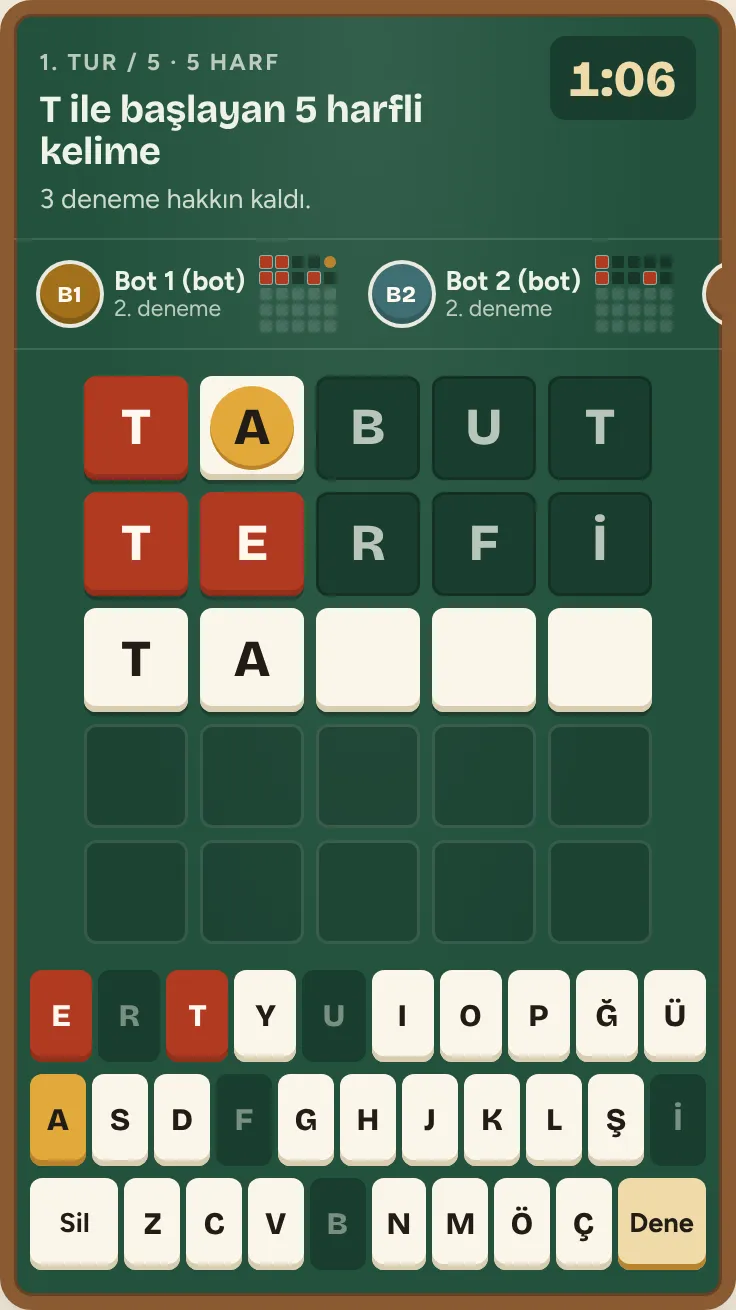
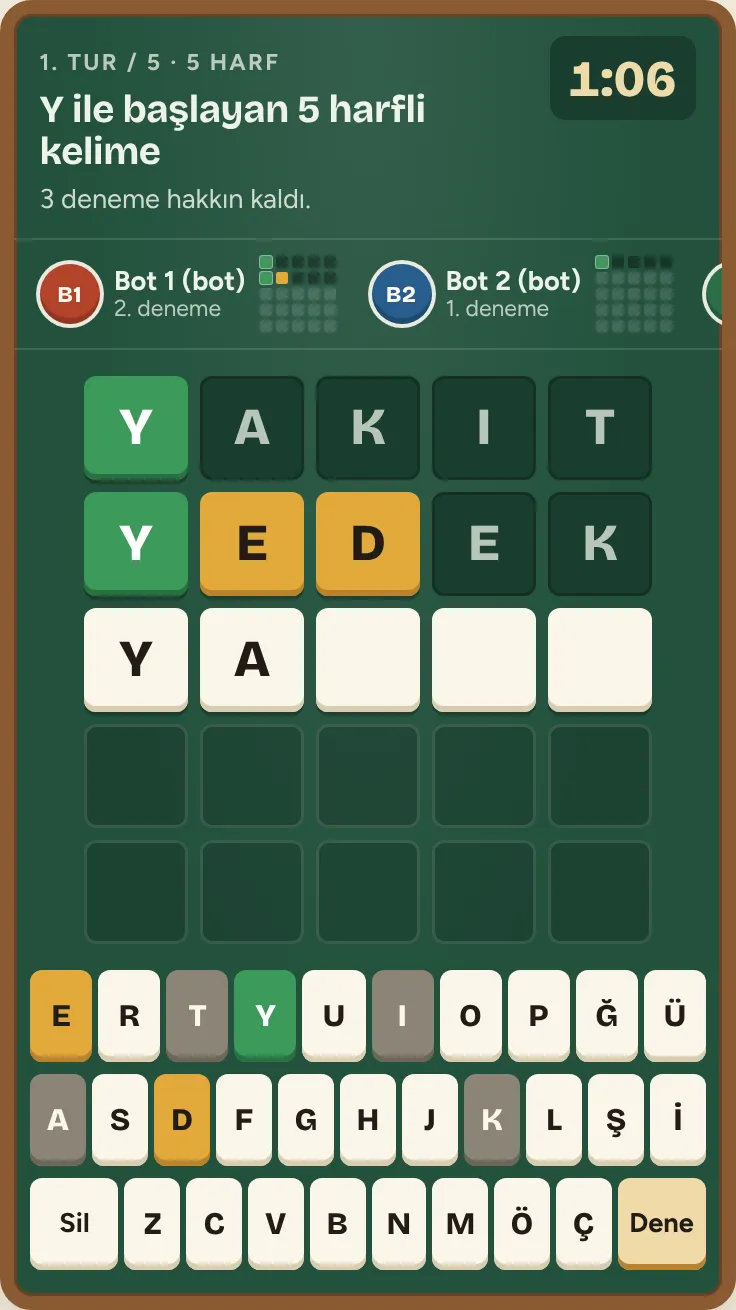
Lingo: green for letters in place, yellow for misplaced, keep every key readable
Letters in place now light up green and misplaced ones a full yellow square.
Letters the word lacks turn grey on the keyboard instead of fading into the
felt, and the keyboard no longer dims once your board is done, so the whole
alphabet stays in view every round. Rules, guide text and screenshots updated.

Claude-Session: https://claude.ai/code/session_015RL6iDuLwuutUXUxmze7HT

diff --git a/client/src/games/lingo.css b/client/src/games/lingo.css
@@ -1,9 +1,11 @@
 /*
- * Lingo: letter squares on green felt, as on the TV show. A red square is a
- * letter in its place, a yellow circle a letter that is somewhere else in the
- * word; the shape tells them apart as well as the colour does.
+ * Lingo: letter squares on green felt. A bright green square is a
+ * letter in its place, a yellow one a letter that is somewhere else in the
+ * word, a dark one a letter the word does not have.
  */
 .lingo {
+  --hit: #3d9a5c;
+  --hit-edge: #2a7142;
   display: flex;
   flex-direction: column;
 }
@@ -111,12 +113,11 @@
   background: rgb(255 255 255 / 0.14);
 }
 .rival-dots i.hit {
-  background: var(--accent);
+  background: var(--hit);
   box-shadow: 0 0 0 0.5px rgb(255 255 255 / 0.5);
 }
 .rival-dots i.near {
-  background: var(--brass);
-  border-radius: 50%;
+  background: #e2a93b;
 }
 .rival-dots i.miss {
   background: rgb(0 0 0 / 0.35);
@@ -175,25 +176,17 @@
   animation-delay: calc(var(--i) * 90ms);
 }
 .cell.hit {
-  background: var(--accent);
-  color: var(--accent-ink);
+  background: var(--hit);
+  color: #fff;
   box-shadow:
-    inset 0 -3px 0 var(--accent-dark),
+    inset 0 -3px 0 var(--hit-edge),
     0 2px 0 rgb(0 0 0 / 0.25);
 }
 .cell.near {
-  background: var(--tile);
-  box-shadow:
-    inset 0 -3px 0 var(--tile-edge),
-    0 2px 0 rgb(0 0 0 / 0.25);
-}
-.cell.near::before {
-  content: "";
-  position: absolute;
-  inset: 9%;
-  border-radius: 50%;
   background: #e2a93b;
-  box-shadow: inset 0 -2px 0 var(--brass);
+  box-shadow:
+    inset 0 -3px 0 var(--brass),
+    0 2px 0 rgb(0 0 0 / 0.25);
 }
 .cell.miss {
   background: var(--felt-dark);
@@ -212,8 +205,9 @@
   flex-direction: column;
   gap: 6px;
 }
-.keyboard.off {
-  opacity: 0.5;
+.keyboard button.kb-key:disabled {
+  opacity: 1;
+  cursor: default;
 }
 .kb-row {
   display: flex;
@@ -253,18 +247,19 @@ button.kb-key.kb-wide {
   box-shadow: inset 0 -3px 0 var(--brass);
 }
 .keyboard button.kb-key.hit {
-  background: var(--accent);
-  color: var(--accent-ink);
-  box-shadow: inset 0 -3px 0 var(--accent-dark);
+  background: var(--hit);
+  color: #fff;
+  box-shadow: inset 0 -3px 0 var(--hit-edge);
 }
 .keyboard button.kb-key.near {
   background: #e2a93b;
   box-shadow: inset 0 -3px 0 var(--brass);
 }
+/* Letters the word lacks stay readable, just greyed, so the whole alphabet is always in view. */
 .keyboard button.kb-key.miss {
-  background: var(--felt-dark);
-  color: rgb(238 243 232 / 0.45);
-  box-shadow: none;
+  background: #8a8476;
+  color: #fbf6e9;
+  box-shadow: inset 0 -3px 0 #6c6759;
 }
 
 .lingo-after {

diff --git a/client/src/Guide.tsx b/client/src/Guide.tsx
@@ -371,7 +371,7 @@ const GUIDES: Record<GameId, GameGuide> = {
       },
       {
         title: "İşaretleri oku",
-        text: "Kırmızı kare harfin yerini bildiğini, sarı daire harfin kelimede olup başka yerde durduğunu, koyu kare harfin kelimede olmadığını söyler. Yerini bildiğin harfler sonraki satırda silik olarak görünür; klavyedeki tuşlar da aynı renklere boyanır.",
+        text: "Yeşil kare harfin yerini bildiğini, sarı kare harfin kelimede olup başka yerde durduğunu, koyu kare harfin kelimede olmadığını söyler. Yerini bildiğin harfler sonraki satırda silik olarak görünür; klavyedeki tuşlar da aynı renklere boyanır.",
       },
       {
         title: "Rakipleri izle",
@@ -395,9 +395,9 @@ const GUIDES: Record<GameId, GameGuide> = {
       "Eksik koltuğa bot oturtulabilir; botlar her tahmini birkaç saniye düşünerek yapar.",
     ],
     tips: [
-      "İlk denemede farklı ve sık sesli harfleri (A, E, İ) dene; sarı daireler ikinci tahmini çok daraltır.",
+      "İlk denemede farklı ve sık sesli harfleri (A, E, İ) dene; sarı kareler ikinci tahmini çok daraltır.",
       "Koyu kareye dönen harfleri klavyede görürsün; o tuşlara bir daha basma.",
-      "Rakiplerin şeridinde çok kırmızı görüyorsan acele et: ilk bulan iki puan fazla alır.",
+      "Rakiplerin şeridinde çok yeşil görüyorsan acele et: ilk bulan iki puan fazla alır.",
     ],
   },
 };

diff --git a/client/src/games/LingoScreen.tsx b/client/src/games/LingoScreen.tsx
@@ -122,7 +122,7 @@ export function LingoScreen({ room }: { room: RoomView }) {
     if (mine?.solved) hint = `Buldun, +${mine.points} puan. Diğerleri bekleniyor.`;
     else if (mine?.done) hint = "Denemelerin bitti. Diğerleri bekleniyor.";
     else if (mine?.rows.length) hint = `${g.tries - mine.rows.length} deneme hakkın kaldı.`;
-    else hint = `${g.tries} deneme hakkın var. Kırmızı kare yerinde, sarı daire kelimede var ama yeri yanlış.`;
+    else hint = `${g.tries} deneme hakkın var. Yeşil kare yerinde, sarı kare kelimede var ama yeri yanlış.`;
   } else {
     const winners = ids.filter((id) => g.boards[id].place === 1);
     title = up(g.word ?? "");
@@ -168,7 +168,7 @@ export function LingoScreen({ room }: { room: RoomView }) {
               {g.phase === "finished" && <p className="lingo-foot">{standings(g, room)}</p>}
             </div>
           ) : (
-            <div className={`keyboard ${playing ? "" : "off"}`}>
+            <div className="keyboard">
               {KEYS.map((row, i) => (
                 <div className="kb-row" key={i}>
                   {i === 2 && (

diff --git a/server/src/games/lingo/lingo.ts b/server/src/games/lingo/lingo.ts
@@ -141,7 +141,7 @@ export class LingoGame implements GameInstance {
 
   /**
    * A bot guesses a word that fits what its own board has shown so far, now
-   * and then forgetting the yellow circles and grey letters, and takes its
+   * and then forgetting the yellow and dark squares, and takes its
    * time over each guess.
    */
   botAction(playerId: string): GameAction | null {
@@ -232,7 +232,7 @@ export class LingoGame implements GameInstance {
   }
 }
 
-/** Whether a word would have lit up a past guess the same way; a careless bot only checks the red squares. */
+/** Whether a word would have lit up a past guess the same way; a careless bot only checks the green squares. */
 function sameMarks(a: LingoMark[], b: LingoMark[], careless: boolean): boolean {
   return a.every((m, i) => (careless ? (m === "hit") === (b[i] === "hit") : m === b[i]));
 }

diff --git a/client/src/GameEmblem.tsx b/client/src/GameEmblem.tsx
@@ -115,8 +115,7 @@ export function GameEmblem({ game, size = 56 }: { game: GameId; size?: number })
       {game === "lingo" && (
         <>
           <rect x="4" y="12" width="17" height="17" rx="3" className="e-hit" />
-          <rect x="23.5" y="12" width="17" height="17" rx="3" className="e-tile" />
-          <circle cx="32" cy="20.5" r="6.5" className="e-near" />
+          <rect x="23.5" y="12" width="17" height="17" rx="3" className="e-near" />
           <rect x="43" y="12" width="17" height="17" rx="3" className="e-tile" />
           <rect x="4" y="33" width="17" height="17" rx="3" className="e-hit" />
           <rect x="23.5" y="33" width="17" height="17" rx="3" className="e-hit" />

diff --git a/client/src/Rules.tsx b/client/src/Rules.tsx
@@ -219,8 +219,8 @@ const RULES: Record<GameId, Section[]> = {
     {
       title: "İşaretler",
       items: [
-        "Kırmızı kare: harf kelimede var ve yeri doğru.",
-        "Sarı daire: harf kelimede var ama başka bir yerde.",
+        "Yeşil kare: harf kelimede var ve yeri doğru.",
+        "Sarı kare: harf kelimede var ama başka bir yerde.",
         "Koyu kare: harf kelimede yok. Aynı harf iki kez yazıldıysa kelimede kaç tane varsa o kadarı işaretlenir.",
         "Diğerlerinin tahminlerini sadece renk olarak görürsün; harfleri tur bitince açılır.",
       ],

diff --git a/shared/games/lingo.ts b/shared/games/lingo.ts
@@ -5,8 +5,8 @@ export const LINGO_LENGTHS = [4, 5, 6] as const;
 export const LINGO_TRIES = 5;
 
 /**
- * What a letter of a guess shows, as on Lingo: a red square for a letter in
- * its place, a yellow circle for a letter that is in the word somewhere else.
+ * What a letter of a guess shows: a green square for a letter in
+ * its place, a yellow square for a letter that is in the word somewhere else.
  */
 export type LingoMark = "hit" | "near" | "miss";
 

diff --git a/client/src/styles.css b/client/src/styles.css
@@ -418,12 +418,14 @@ label.row select {
   fill: var(--ink);
 }
 .e-hit {
-  fill: var(--accent);
+  fill: #3d9a5c;
   stroke: var(--ink);
   stroke-width: 1.5;
 }
 .e-near {
   fill: #e2a93b;
+  stroke: var(--ink);
+  stroke-width: 1.5;
 }
 .e-letter {
   font-size: 13px;

diff --git a/README.md b/README.md
@@ -21,7 +21,7 @@ Arkadaş grubuyla tarayıcıdan oynanan masa ve grup oyunları. Biri oda açar, 
 | Pişti | 2 ya da 4 | Var | Yerdeki üst kartla aynı kartı ya da vale atan yerdeki kartları alır. Tek karta aynısı pişti (10), valeye vale 20. El sonunda kartların çoğu 3, karo 10 3, sinek 2 2, her as ve vale 1. 4 kişide eşli oynanabilir. |
 | Batak | 4 | Var | 13'er kart. İhaleli: en yüksek ihaleyi veren kozu seçer, ihalesi kadar el almazsa ihalesi kadar eksi yazar. Koz maça: koz hep maça, herkes söz verir. Renge uymak, yükseltmek ve renk yoksa koz atmak zorunlu. Tekli ya da eşli; telefon yatayken tam ekran masa. |
 | Casus | 3-16 | Yok | Herkese aynı gizli kelime gelir, casusa gelmez. Kategori seçilir (Tümü, Ülke, Şehir, Eşya, Aktivite, Meslek, Yemek, Hayvan, Spor, Yabancı Ünlü, Mekan). Sırayla soru sorulur, sonra gizli oylama; yakalanan casus kelimeyi listeden tahmin ederse yine kazanır. 1-3 casus, soru süresi ve tur sayısı lobide seçilir. |
-| Lingo | 2-8 | Var | Lingo yarışması (ve Lingohunt gibi uygulamalar) tarzı kelime avı. Herkes aynı gizli kelimeyi aynı anda arar; ilk harf verilir, 5 deneme hakkı var. Kırmızı kare harf yerinde, sarı daire kelimede var ama yeri yanlış. Rakiplerin satırları sadece renk olarak görünür. Bulunan denemeye göre 5-1 puan, ilk bulana +2, ikinciye +1. Kelime uzunluğu (4, 5, 6 ya da büyüyen), tur süresi ve tur sayısı lobide seçilir. |
+| Lingo | 2-8 | Var | Lingo yarışması (ve Lingohunt gibi uygulamalar) tarzı kelime avı. Herkes aynı gizli kelimeyi aynı anda arar; ilk harf verilir, 5 deneme hakkı var. Yeşil kare harf yerinde, sarı kare kelimede var ama yeri yanlış. Rakiplerin satırları sadece renk olarak görünür. Bulunan denemeye göre 5-1 puan, ilk bulana +2, ikinciye +1. Kelime uzunluğu (4, 5, 6 ya da büyüyen), tur süresi ve tur sayısı lobide seçilir. |
 
 Her oyun ekranında masa solda, yanında (telefonda altında) sekmeler durur: oyunun kendi paneli (puanlar, hamleler, köy defteri ya da tur kaydı), masa sohbeti ve o oyunun kuralları.
 
